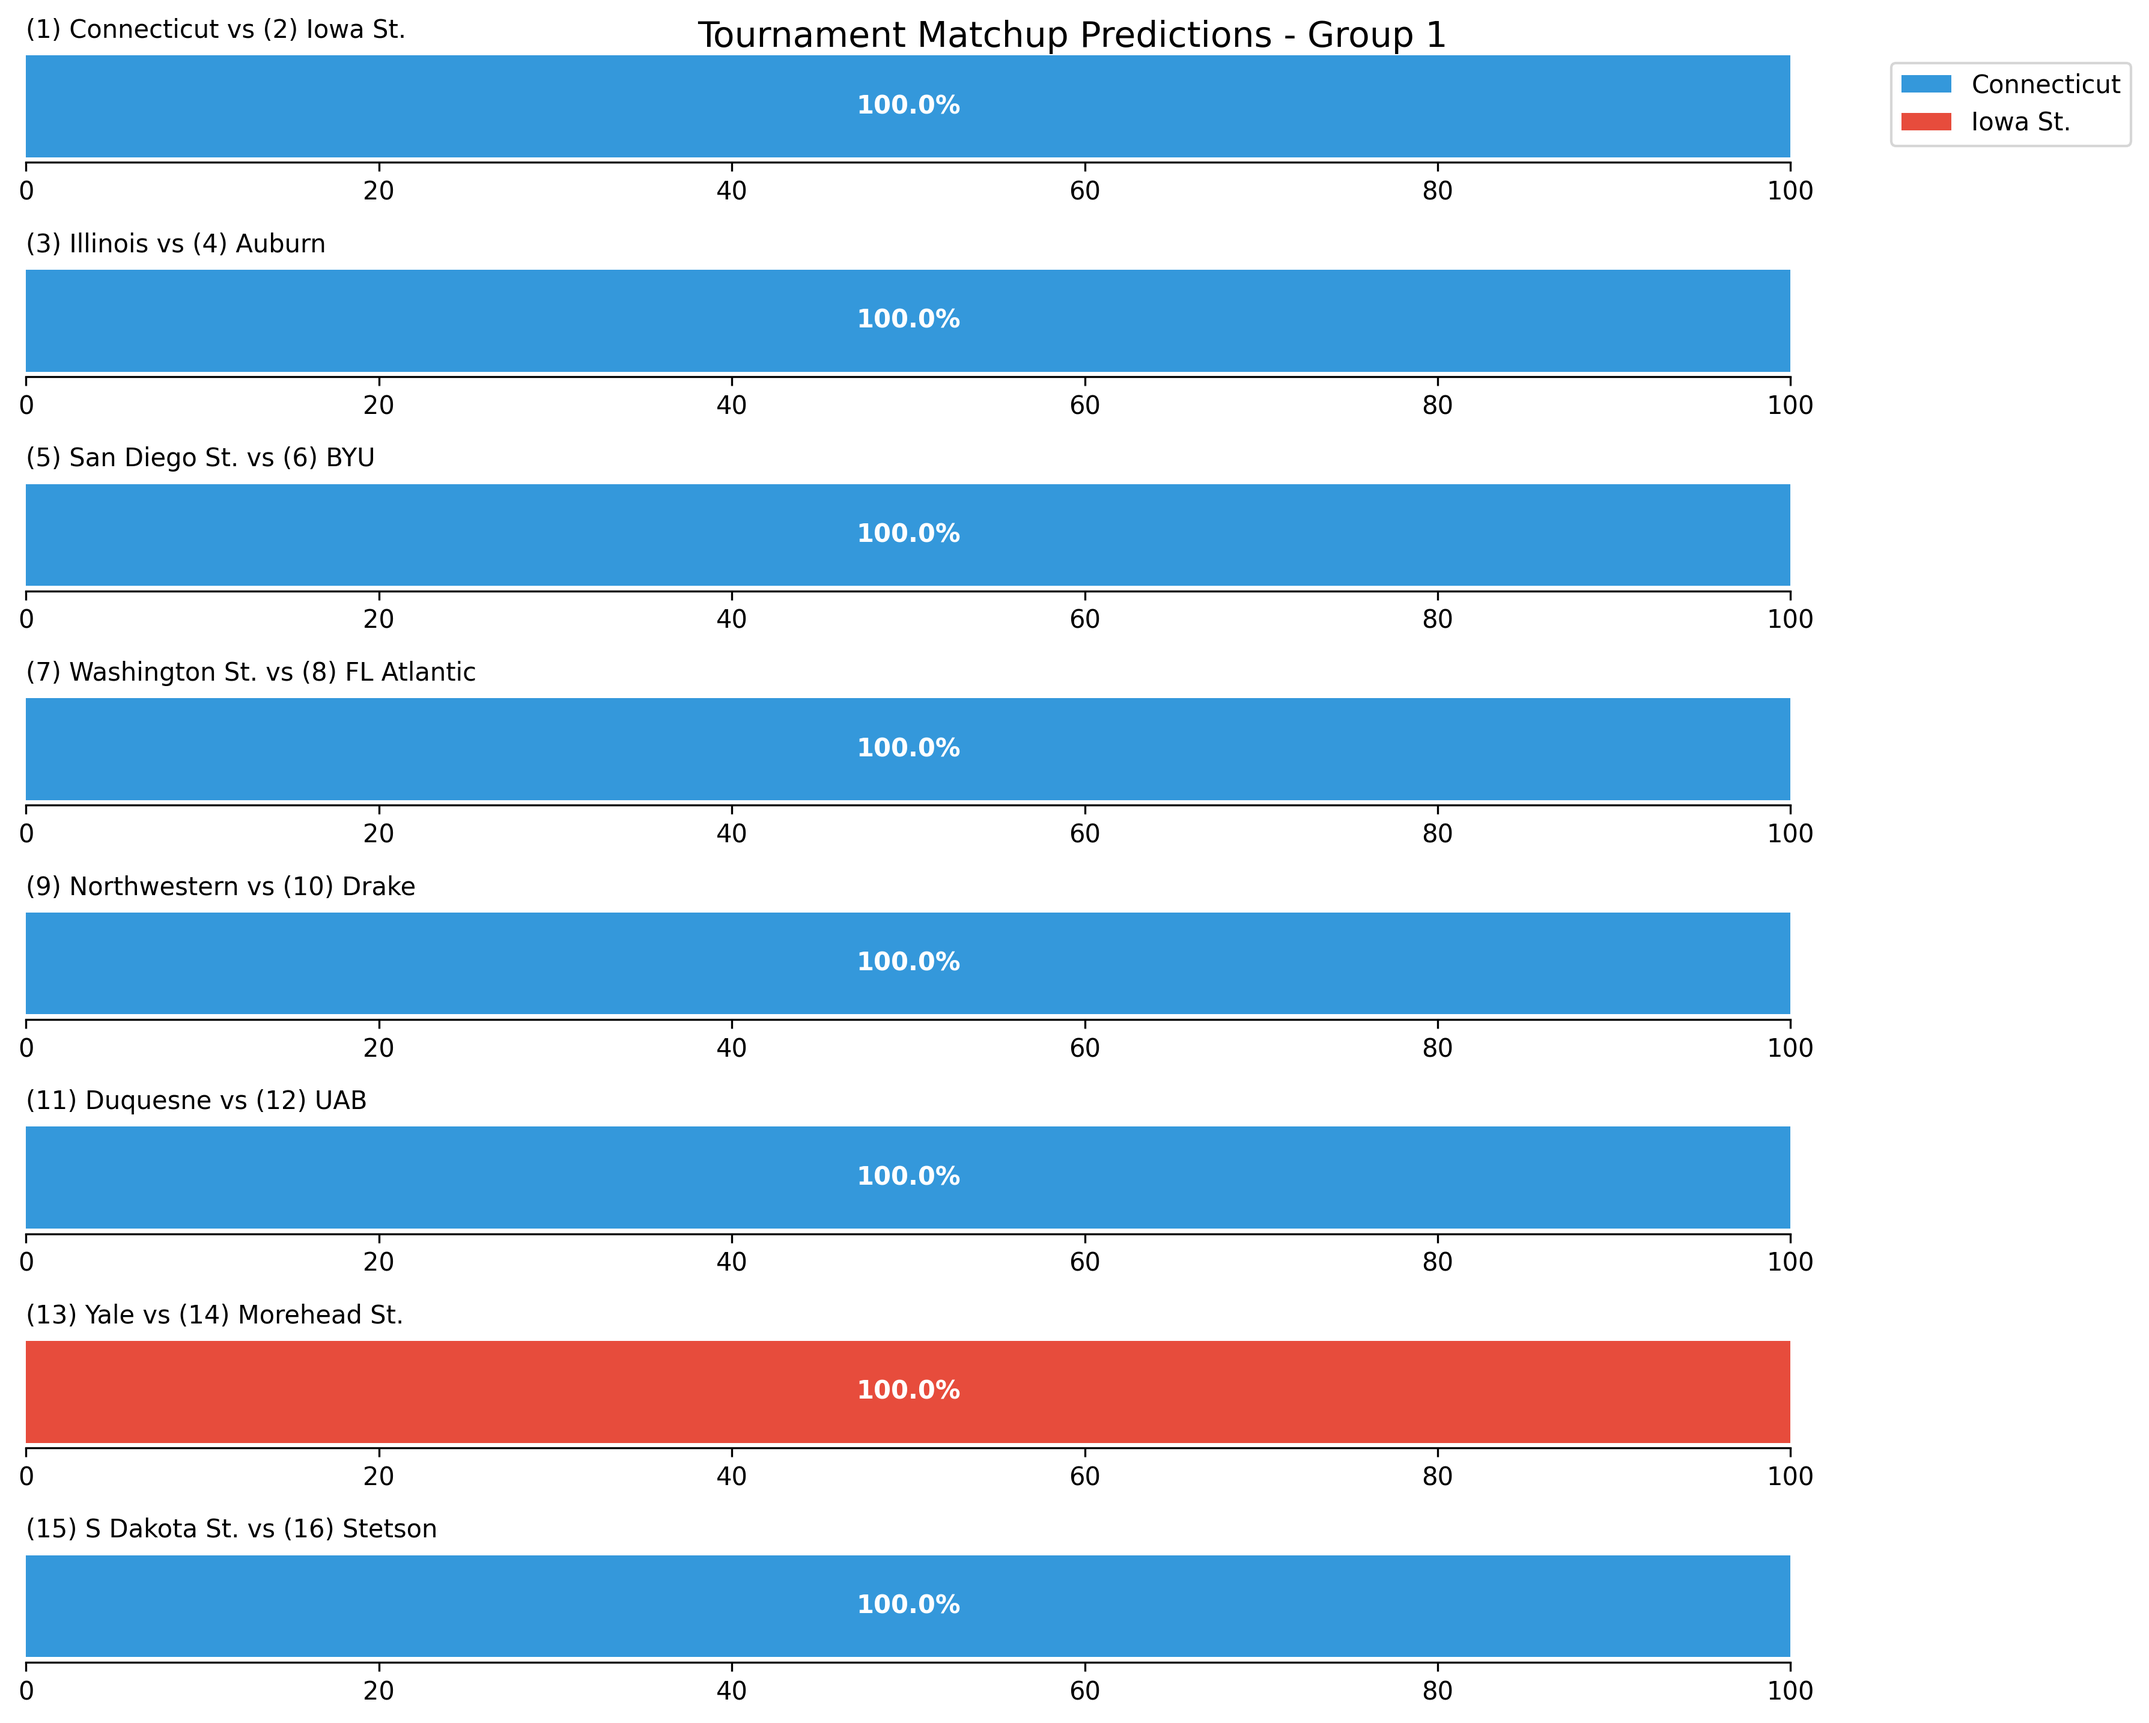
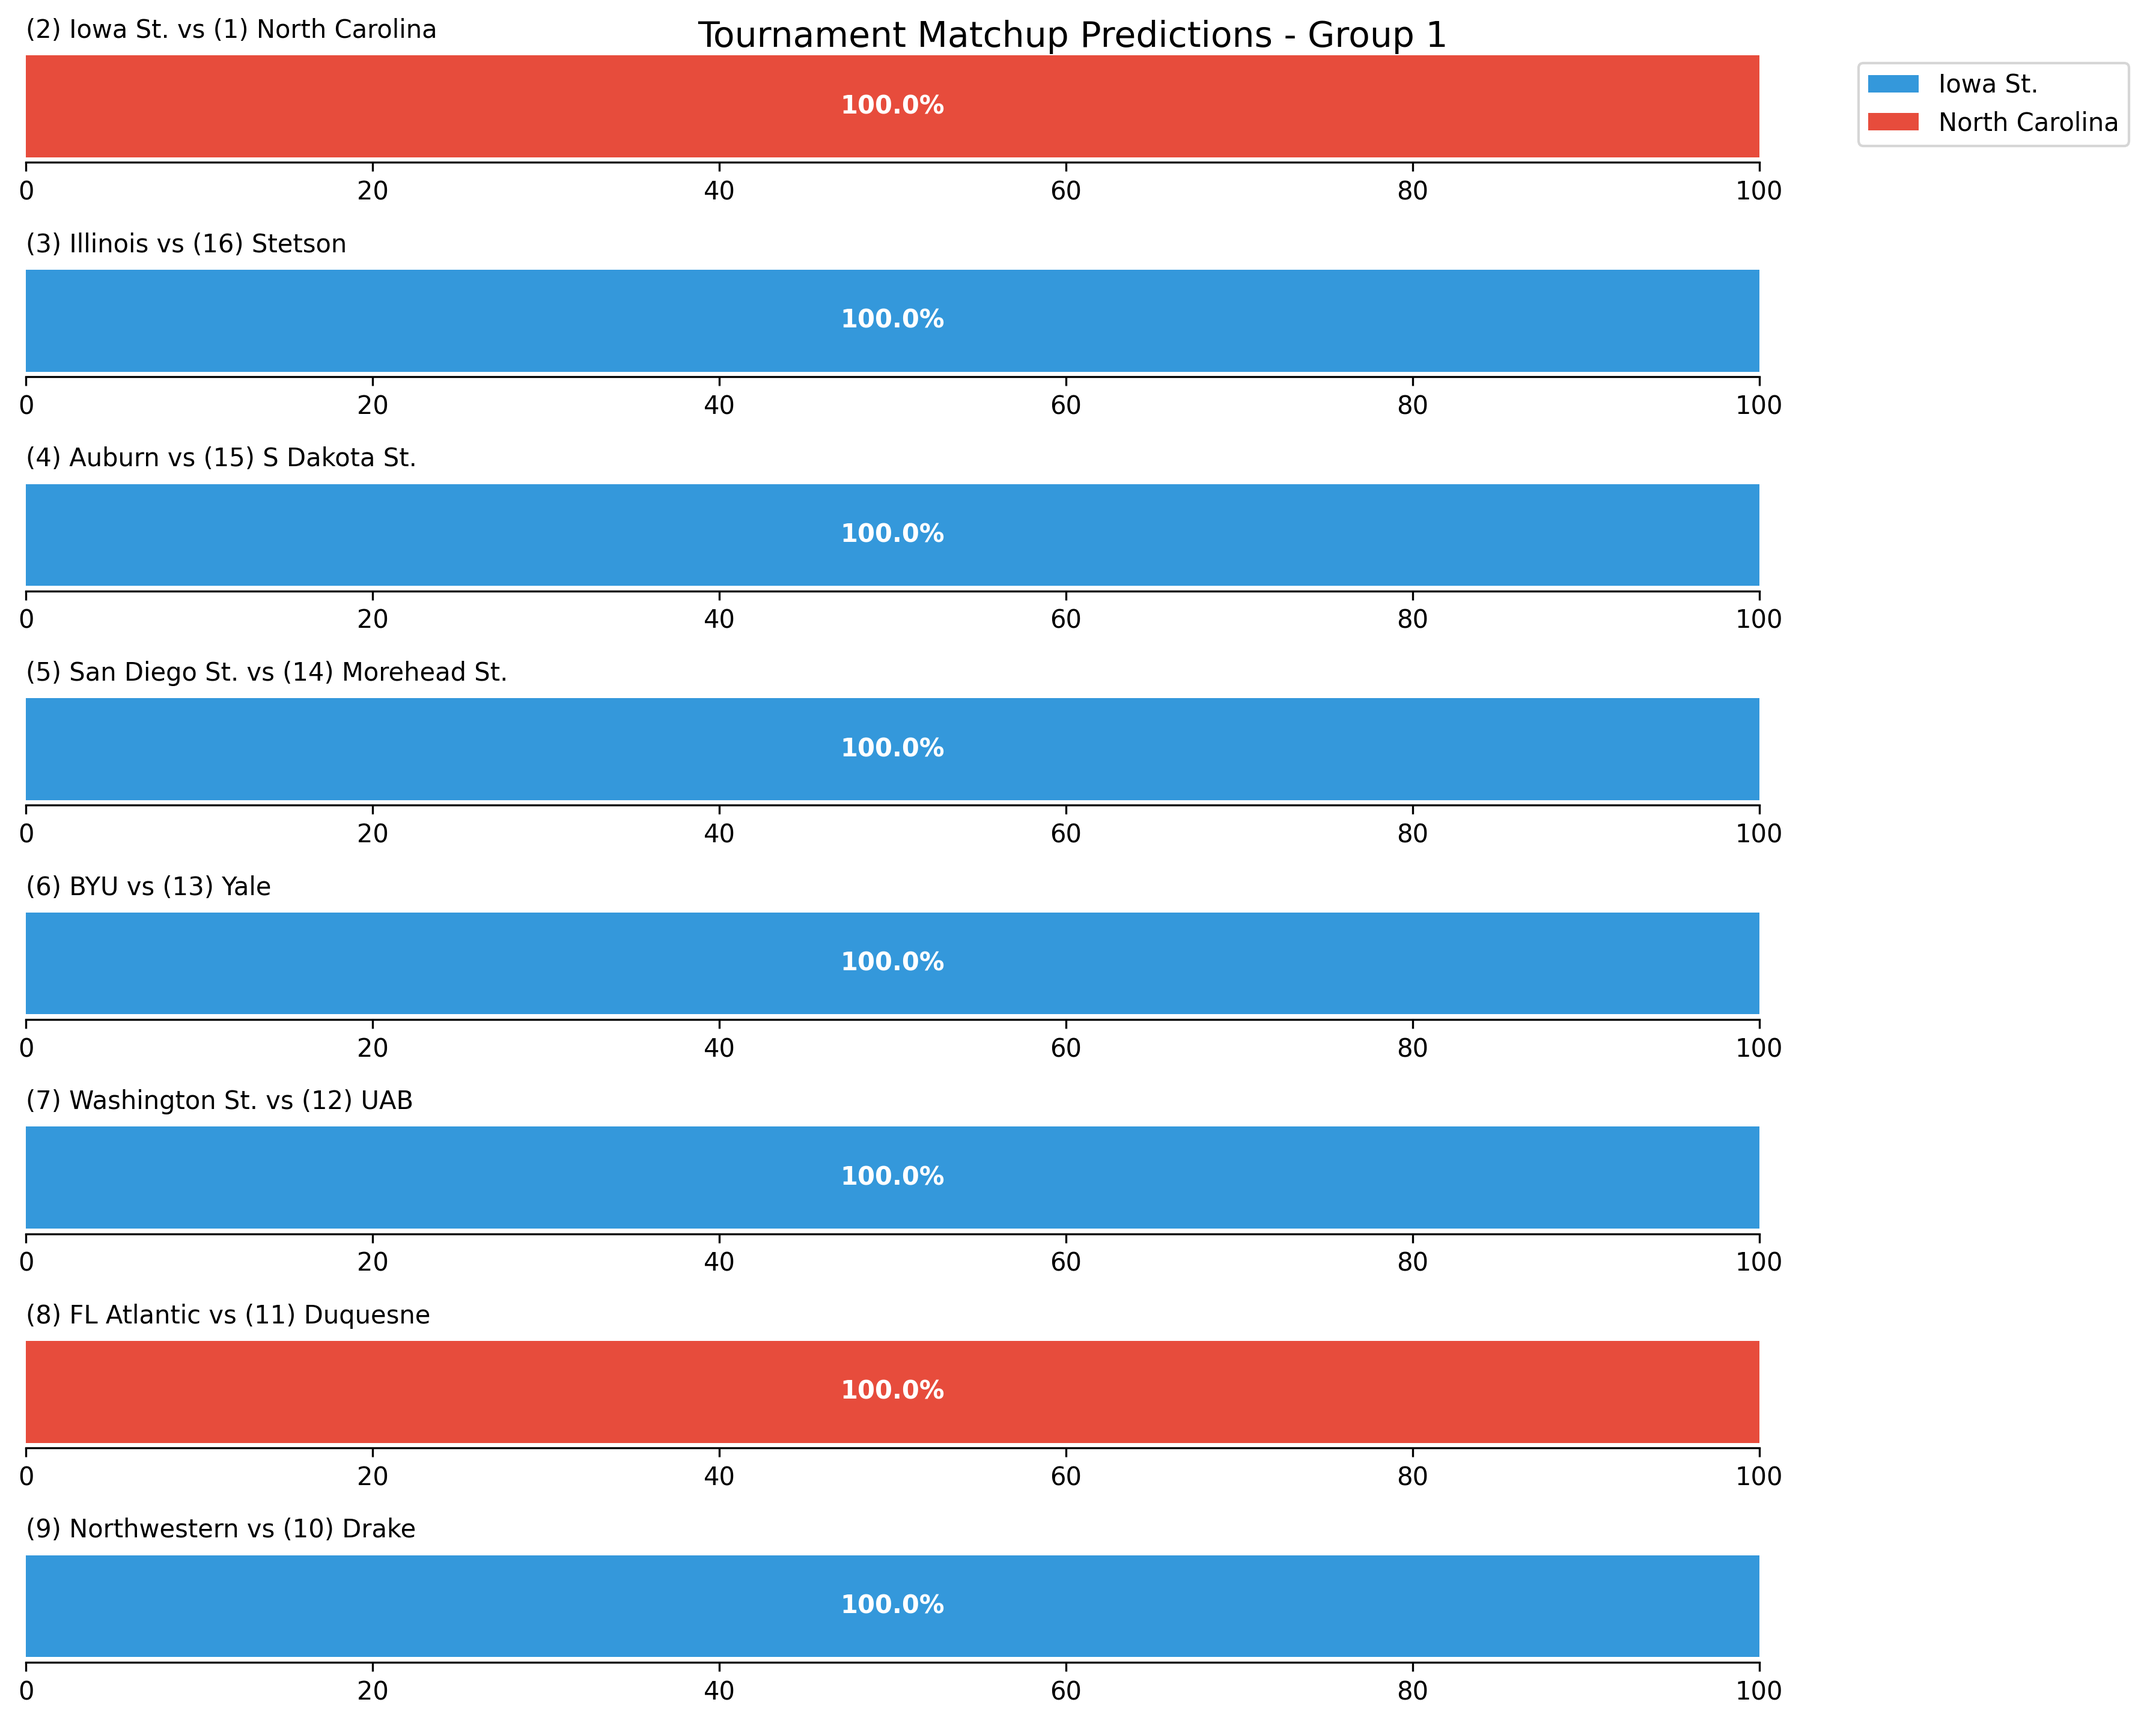
Got some refactoring to include win percentage by seed by round

diff --git a/Testing/main.py b/Testing/main.py
@@ -41,6 +41,8 @@ tourney_seeds = pd.read_csv(f'{data_dir}/MNCAATourneySeeds.csv')
 team_conferences = pd.read_csv(f'{data_dir}/MTeamConferences.csv')
 reg_results = pd.read_csv(f'{data_dir}/MRegularSeasonDetailedResults.csv')
 tourney_results = pd.read_csv(f'{data_dir}/MNCAATourneyCompactResults.csv')
+seed_results = pd.read_csv(f'{data_dir}/SeedPerformanceReport.csv')
+seed_results = seed_results.set_index("SEED")
 
 # ----------------------------
 # Process Regular Season Data
@@ -96,9 +98,23 @@ for idx, row in tourney_results.iterrows():
             'Team1_AvgPoints': winner_feat['AvgPoints'],
             'Team1_AvgOppPoints': winner_feat['AvgOppPoints'],
             'Team1_SeedNum': winner_feat['SeedNum'],
+            'Team1_SeedWin%': seed_results.loc[winner_feat['SeedNum'].astype(int), "WIN%"],
+            'Team1_SeedR64%': seed_results.loc[winner_feat['SeedNum'].astype(int), "R64%"],
+            'Team1_SeedR32%': seed_results.loc[winner_feat['SeedNum'].astype(int), "R32%"],
+            'Team1_SeedS16%': seed_results.loc[winner_feat['SeedNum'].astype(int), "S16%"],
+            'Team1_SeedE8%': seed_results.loc[winner_feat['SeedNum'].astype(int), "E8%"],
+            'Team1_SeedF4%': seed_results.loc[winner_feat['SeedNum'].astype(int), "F4%"],
+            'Team1_SeedF2%': seed_results.loc[winner_feat['SeedNum'].astype(int), "F2%"],
             'Team2_AvgPoints': loser_feat['AvgPoints'],
             'Team2_AvgOppPoints': loser_feat['AvgOppPoints'],
             'Team2_SeedNum': loser_feat['SeedNum'],
+            'Team2_SeedWin%': seed_results.loc[loser_feat['SeedNum'].astype(int), "WIN%"],
+            'Team2_SeedR64%': seed_results.loc[loser_feat['SeedNum'].astype(int), "R64%"],
+            'Team2_SeedR32%': seed_results.loc[loser_feat['SeedNum'].astype(int), "R32%"],
+            'Team2_SeedS16%': seed_results.loc[loser_feat['SeedNum'].astype(int), "S16%"],
+            'Team2_SeedE8%': seed_results.loc[loser_feat['SeedNum'].astype(int), "E8%"],
+            'Team2_SeedF4%': seed_results.loc[loser_feat['SeedNum'].astype(int), "F4%"],
+            'Team2_SeedF2%': seed_results.loc[loser_feat['SeedNum'].astype(int), "F2%"],
             'Target': 1
         })
         
@@ -108,9 +124,23 @@ for idx, row in tourney_results.iterrows():
             'Team1_AvgPoints': loser_feat['AvgPoints'],
             'Team1_AvgOppPoints': loser_feat['AvgOppPoints'],
             'Team1_SeedNum': loser_feat['SeedNum'],
+            'Team1_SeedWin%': seed_results.loc[loser_feat['SeedNum'].astype(int), "WIN%"],
+            'Team1_SeedR64%': seed_results.loc[loser_feat['SeedNum'].astype(int), "R64%"],
+            'Team1_SeedR32%': seed_results.loc[loser_feat['SeedNum'].astype(int), "R32%"],
+            'Team1_SeedS16%': seed_results.loc[loser_feat['SeedNum'].astype(int), "S16%"],
+            'Team1_SeedE8%': seed_results.loc[loser_feat['SeedNum'].astype(int), "E8%"],
+            'Team1_SeedF4%': seed_results.loc[loser_feat['SeedNum'].astype(int), "F4%"],
+            'Team1_SeedF2%': seed_results.loc[loser_feat['SeedNum'].astype(int), "F2%"],
             'Team2_AvgPoints': winner_feat['AvgPoints'],
             'Team2_AvgOppPoints': winner_feat['AvgOppPoints'],
             'Team2_SeedNum': winner_feat['SeedNum'],
+            'Team2_SeedWin%': seed_results.loc[winner_feat['SeedNum'].astype(int), "WIN%"],
+            'Team2_SeedR64%': seed_results.loc[winner_feat['SeedNum'].astype(int), "R64%"],
+            'Team2_SeedR32%': seed_results.loc[winner_feat['SeedNum'].astype(int), "R32%"],
+            'Team2_SeedS16%': seed_results.loc[winner_feat['SeedNum'].astype(int), "S16%"],
+            'Team2_SeedE8%': seed_results.loc[winner_feat['SeedNum'].astype(int), "E8%"],
+            'Team2_SeedF4%': seed_results.loc[winner_feat['SeedNum'].astype(int), "F4%"],
+            'Team2_SeedF2%': seed_results.loc[winner_feat['SeedNum'].astype(int), "F2%"],
             'Target': 0
         })
 
@@ -123,15 +153,53 @@ print(training_df.head())
 # =============================================================================
 
 # Split features and target
-feature_cols = ['Team1_AvgPoints', 'Team1_AvgOppPoints', 'Team1_SeedNum',
-                'Team2_AvgPoints', 'Team2_AvgOppPoints', 'Team2_SeedNum']
-features = training_df[feature_cols]
-labels = training_df['Target']
+e_training_df = training_df.copy()
+e_training_df.drop(columns=["Team1_SeedS16%", "Team1_SeedE8%", "Team1_SeedF4%", "Team1_SeedF2%",
+                            "Team2_SeedS16%", "Team2_SeedE8%", "Team2_SeedF4%", "Team2_SeedF2%"])
 
-X_train, X_test, y_train, y_test = train_test_split(features, labels, test_size=0.2, random_state=42)
+early_feature_cols = ['Team1_AvgPoints', 'Team1_AvgOppPoints', 'Team1_SeedNum',
+                'Team1_SeedWin%', 'Team1_SeedR64%', 'Team1_SeedR32%', 'Team2_AvgPoints',
+                'Team2_AvgOppPoints', 'Team2_SeedNum', 'Team2_SeedWin%', 
+                'Team2_SeedR64%', 'Team2_SeedR32%']
+early_features = e_training_df[early_feature_cols]
+e_labels = e_training_df['Target']
+
+e_X_train, e_X_test, e_y_train, e_y_test = train_test_split(early_features, e_labels, test_size=0.2, random_state=42)
 scaler = StandardScaler()
-X_train_scaled = pd.DataFrame(scaler.fit_transform(X_train), columns=X_train.columns)
-X_test_scaled = pd.DataFrame(scaler.transform(X_test), columns=X_test.columns)
+e_X_train_scaled = pd.DataFrame(scaler.fit_transform(e_X_train), columns=e_X_train.columns)
+e_X_test_scaled = pd.DataFrame(scaler.transform(e_X_test), columns=e_X_test.columns)
+
+m_training_df = training_df.copy()
+m_training_df.drop(columns=["Team1_SeedR64%", "Team1_SeedR32%", "Team1_SeedF4%", "Team1_SeedF2%",
+                            "Team2_SeedR64%", "Team2_SeedR32%", "Team2_SeedF4%", "Team2_SeedF2%"])
+
+middle_feature_cols = ['Team1_AvgPoints', 'Team1_AvgOppPoints', 'Team1_SeedNum',
+                'Team1_SeedWin%', 'Team1_SeedS16%', 'Team1_SeedE8%', 'Team2_AvgPoints',
+                'Team2_AvgOppPoints', 'Team2_SeedNum', 'Team2_SeedWin%',  'Team2_SeedS16%',
+                'Team2_SeedE8%']
+middle_features = m_training_df[middle_feature_cols]
+m_labels = m_training_df['Target']
+
+m_X_train, m_X_test, m_y_train, m_y_test = train_test_split(middle_features, m_labels, test_size=0.2, random_state=42)
+scaler = StandardScaler()
+m_X_train_scaled = pd.DataFrame(scaler.fit_transform(m_X_train), columns=m_X_train.columns)
+m_X_test_scaled = pd.DataFrame(scaler.transform(m_X_test), columns=m_X_test.columns)
+
+f_training_df = training_df.copy()
+f_training_df.drop(columns=["Team1_SeedR64%", "Team1_SeedR32%", "Team1_SeedS16%", "Team1_SeedE8%",
+                            "Team2_SeedR64%", "Team2_SeedR32%", "Team2_SeedS16%", "Team2_SeedE8%"])
+
+final_feature_cols = ['Team1_AvgPoints', 'Team1_AvgOppPoints', 'Team1_SeedNum',
+                'Team1_SeedWin%', 'Team1_SeedF4%', 'Team1_SeedF2%', 'Team2_AvgPoints',
+                'Team2_AvgOppPoints', 'Team2_SeedNum', 'Team2_SeedWin%',  'Team2_SeedF4%',
+                'Team2_SeedF2%']
+final_features = f_training_df[final_feature_cols]
+f_labels = f_training_df['Target']
+
+f_X_train, f_X_test, f_y_train, f_y_test = train_test_split(final_features, f_labels, test_size=0.2, random_state=42)
+scaler = StandardScaler()
+f_X_train_scaled = pd.DataFrame(scaler.fit_transform(f_X_train), columns=f_X_train.columns)
+f_X_test_scaled = pd.DataFrame(scaler.transform(f_X_test), columns=f_X_test.columns)
 
 # Define model candidates for each round
 early_models = {
@@ -199,18 +267,16 @@ def evaluate_models(models, X_train, X_test, y_train, y_test, round_name):
     return best_model
 
 # Evaluate early round models (using only seed features)
-early_features = X_train_scaled[['Team1_SeedNum', 'Team2_SeedNum']]
-early_features_test = X_test_scaled[['Team1_SeedNum', 'Team2_SeedNum']]
-early_model = evaluate_models(early_models, early_features, early_features_test, 
-                            y_train, y_test, "Early Round")
+early_model = evaluate_models(early_models, e_X_train_scaled, e_X_test_scaled, 
+                            e_y_train, e_y_test, "Early Round")
 
 # Evaluate middle round models (using all features)
-middle_model = evaluate_models(middle_models, X_train_scaled, X_test_scaled, 
-                              y_train, y_test, "Middle Round")
+middle_model = evaluate_models(middle_models, m_X_train_scaled, m_X_test_scaled, 
+                              m_y_train, m_y_test, "Middle Round")
 
 # Evaluate final round models (using all features)
-final_model = evaluate_models(final_models, X_train_scaled, X_test_scaled, 
-                             y_train, y_test, "Final Round")
+final_model = evaluate_models(final_models, f_X_train_scaled, f_X_test_scaled, 
+                             f_y_train, f_y_test, "Final Round")
 
 # =============================================================================
 # 4. Simulation and Bracket Prediction
@@ -224,7 +290,7 @@ class Bracket:
         self.rounds = {}
         self.current_round = current_round
         self.team_names = pd.read_csv(os.path.join(project_root, 'MarchMadnessData', 'MTeams.csv'))
-        self.seed_data = pd.read_csv(os.path.join(project_root, 'MarchMadnessData', 'SeedPerformanceReport.csv'))
+        self.seed_data = pd.read_csv(os.path.join(project_root, 'MarchMadnessData', 'SeedPerformanceReport.csv'), index_col="SEED")
     
     def simulate_matchup(self, team1_id, team2_id):
         team1_feat = get_team_features(self.season, team1_id)
@@ -239,23 +305,23 @@ class Bracket:
                 'Team1_AvgPoints': team1_feat['AvgPoints'],
                 'Team1_AvgOppPoints': team1_feat['AvgOppPoints'],
                 'Team1_SeedNum': team1_feat['SeedNum'],
-                'Team1_SeedWin%': self.seed_data.loc[team1_feat['SeedNum'], 'Win%'],
-                'Team1_SeedR64%': self.seed_data.loc[team1_feat['SeedNum'], 'R64%'],
-                'Team1_SeedR32%': self.seed_data.loc[team1_feat['SeedNum'], 'R32%'],
-                'Team1_SeedS16%': self.seed_data.loc[team1_feat['SeedNum'], 'S16%'],
-                'Team1_SeedE8%': self.seed_data.loc[team1_feat['SeedNum'], 'E8%'],
-                'Team1_SeedF4%': self.seed_data.loc[team1_feat['SeedNum'], 'F4%'],
-                'Team1_SeedF2%': self.seed_data.loc[team1_feat['SeedNum'], 'F2%'],
+                'Team1_SeedWin%': self.seed_data.loc[team1_feat['SeedNum'].astype(int), 'WIN%'],
+                'Team1_SeedR64%': self.seed_data.loc[team1_feat['SeedNum'].astype(int), 'R64%'],
+                'Team1_SeedR32%': self.seed_data.loc[team1_feat['SeedNum'].astype(int), 'R32%'],
+                'Team1_SeedS16%': self.seed_data.loc[team1_feat['SeedNum'].astype(int), 'S16%'],
+                'Team1_SeedE8%': self.seed_data.loc[team1_feat['SeedNum'].astype(int), 'E8%'],
+                'Team1_SeedF4%': self.seed_data.loc[team1_feat['SeedNum'].astype(int), 'F4%'],
+                'Team1_SeedF2%': self.seed_data.loc[team1_feat['SeedNum'].astype(int), 'F2%'],
                 'Team2_AvgPoints': team2_feat['AvgPoints'],
                 'Team2_AvgOppPoints': team2_feat['AvgOppPoints'],
                 'Team2_SeedNum': team2_feat['SeedNum'],
-                'Team2_SeedWin%': self.seed_data.loc[team2_feat['SeedNum'], 'Win%'],
-                'Team2_SeedR64%': self.seed_data.loc[team2_feat['SeedNum'], 'R64%'],
-                'Team2_SeedR32%': self.seed_data.loc[team2_feat['SeedNum'], 'R32%'],
-                'Team2_SeedS16%': self.seed_data.loc[team2_feat['SeedNum'], 'S16%'],
-                'Team2_SeedE8%': self.seed_data.loc[team2_feat['SeedNum'], 'E8%'],
-                'Team2_SeedF4%': self.seed_data.loc[team2_feat['SeedNum'], 'F4%'],
-                'Team2_SeedF2%': self.seed_data.loc[team2_feat['SeedNum'], 'F2%'],
+                'Team2_SeedWin%': self.seed_data.loc[team2_feat['SeedNum'].astype(int), 'WIN%'],
+                'Team2_SeedR64%': self.seed_data.loc[team2_feat['SeedNum'].astype(int), 'R64%'],
+                'Team2_SeedR32%': self.seed_data.loc[team2_feat['SeedNum'].astype(int), 'R32%'],
+                'Team2_SeedS16%': self.seed_data.loc[team2_feat['SeedNum'].astype(int), 'S16%'],
+                'Team2_SeedE8%': self.seed_data.loc[team2_feat['SeedNum'].astype(int), 'E8%'],
+                'Team2_SeedF4%': self.seed_data.loc[team2_feat['SeedNum'].astype(int), 'F4%'],
+                'Team2_SeedF2%': self.seed_data.loc[team2_feat['SeedNum'].astype(int), 'F2%'],
             }
         ])
         
